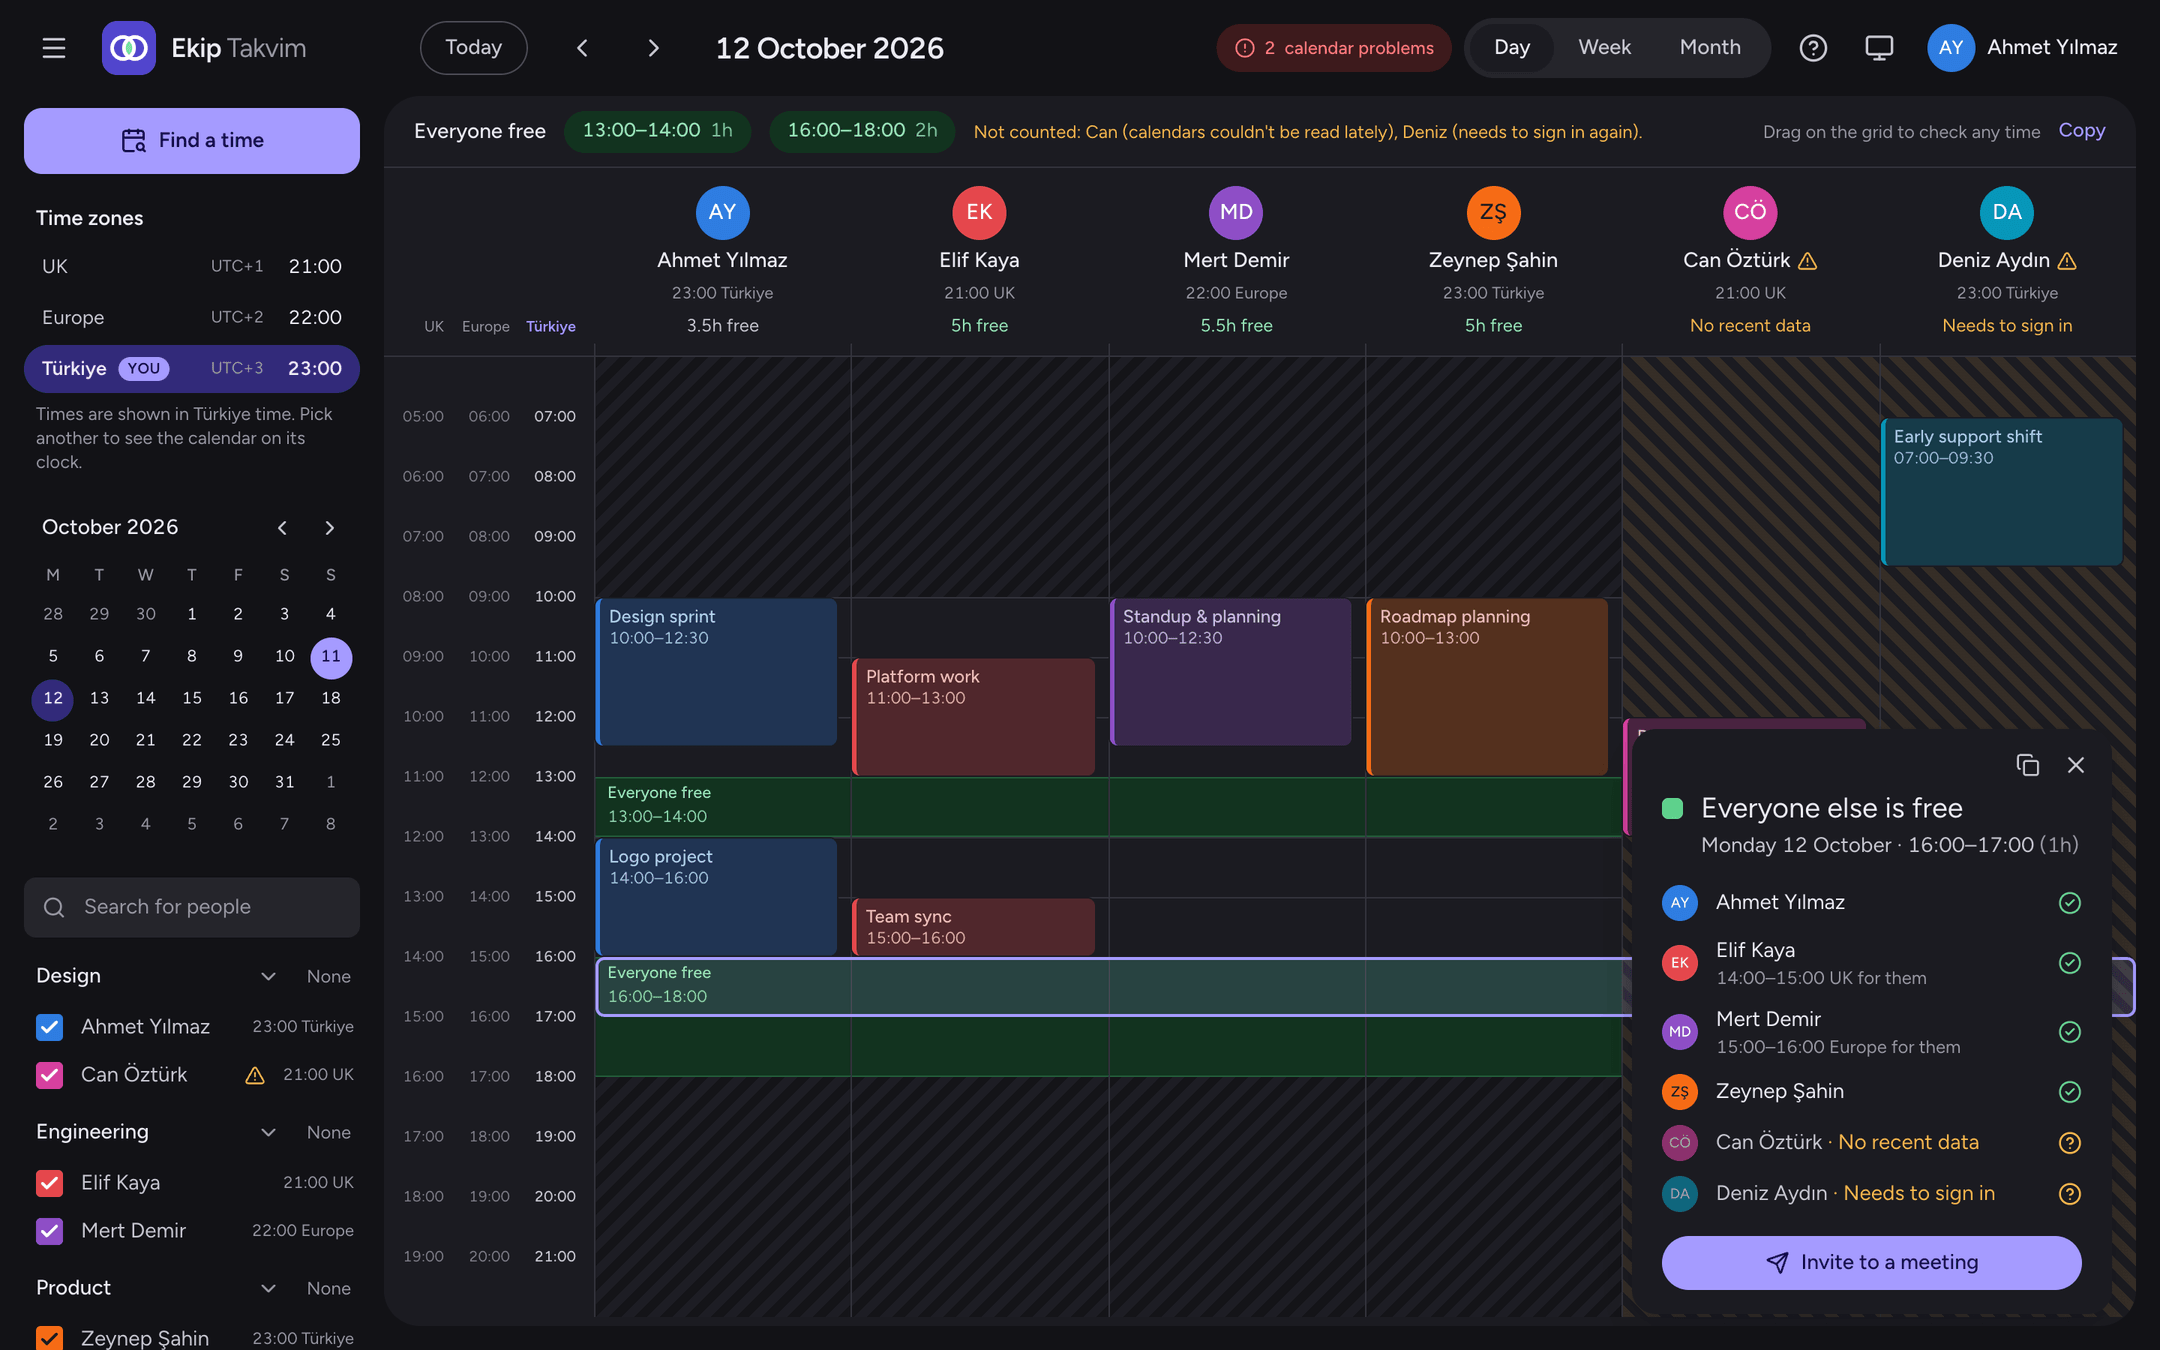
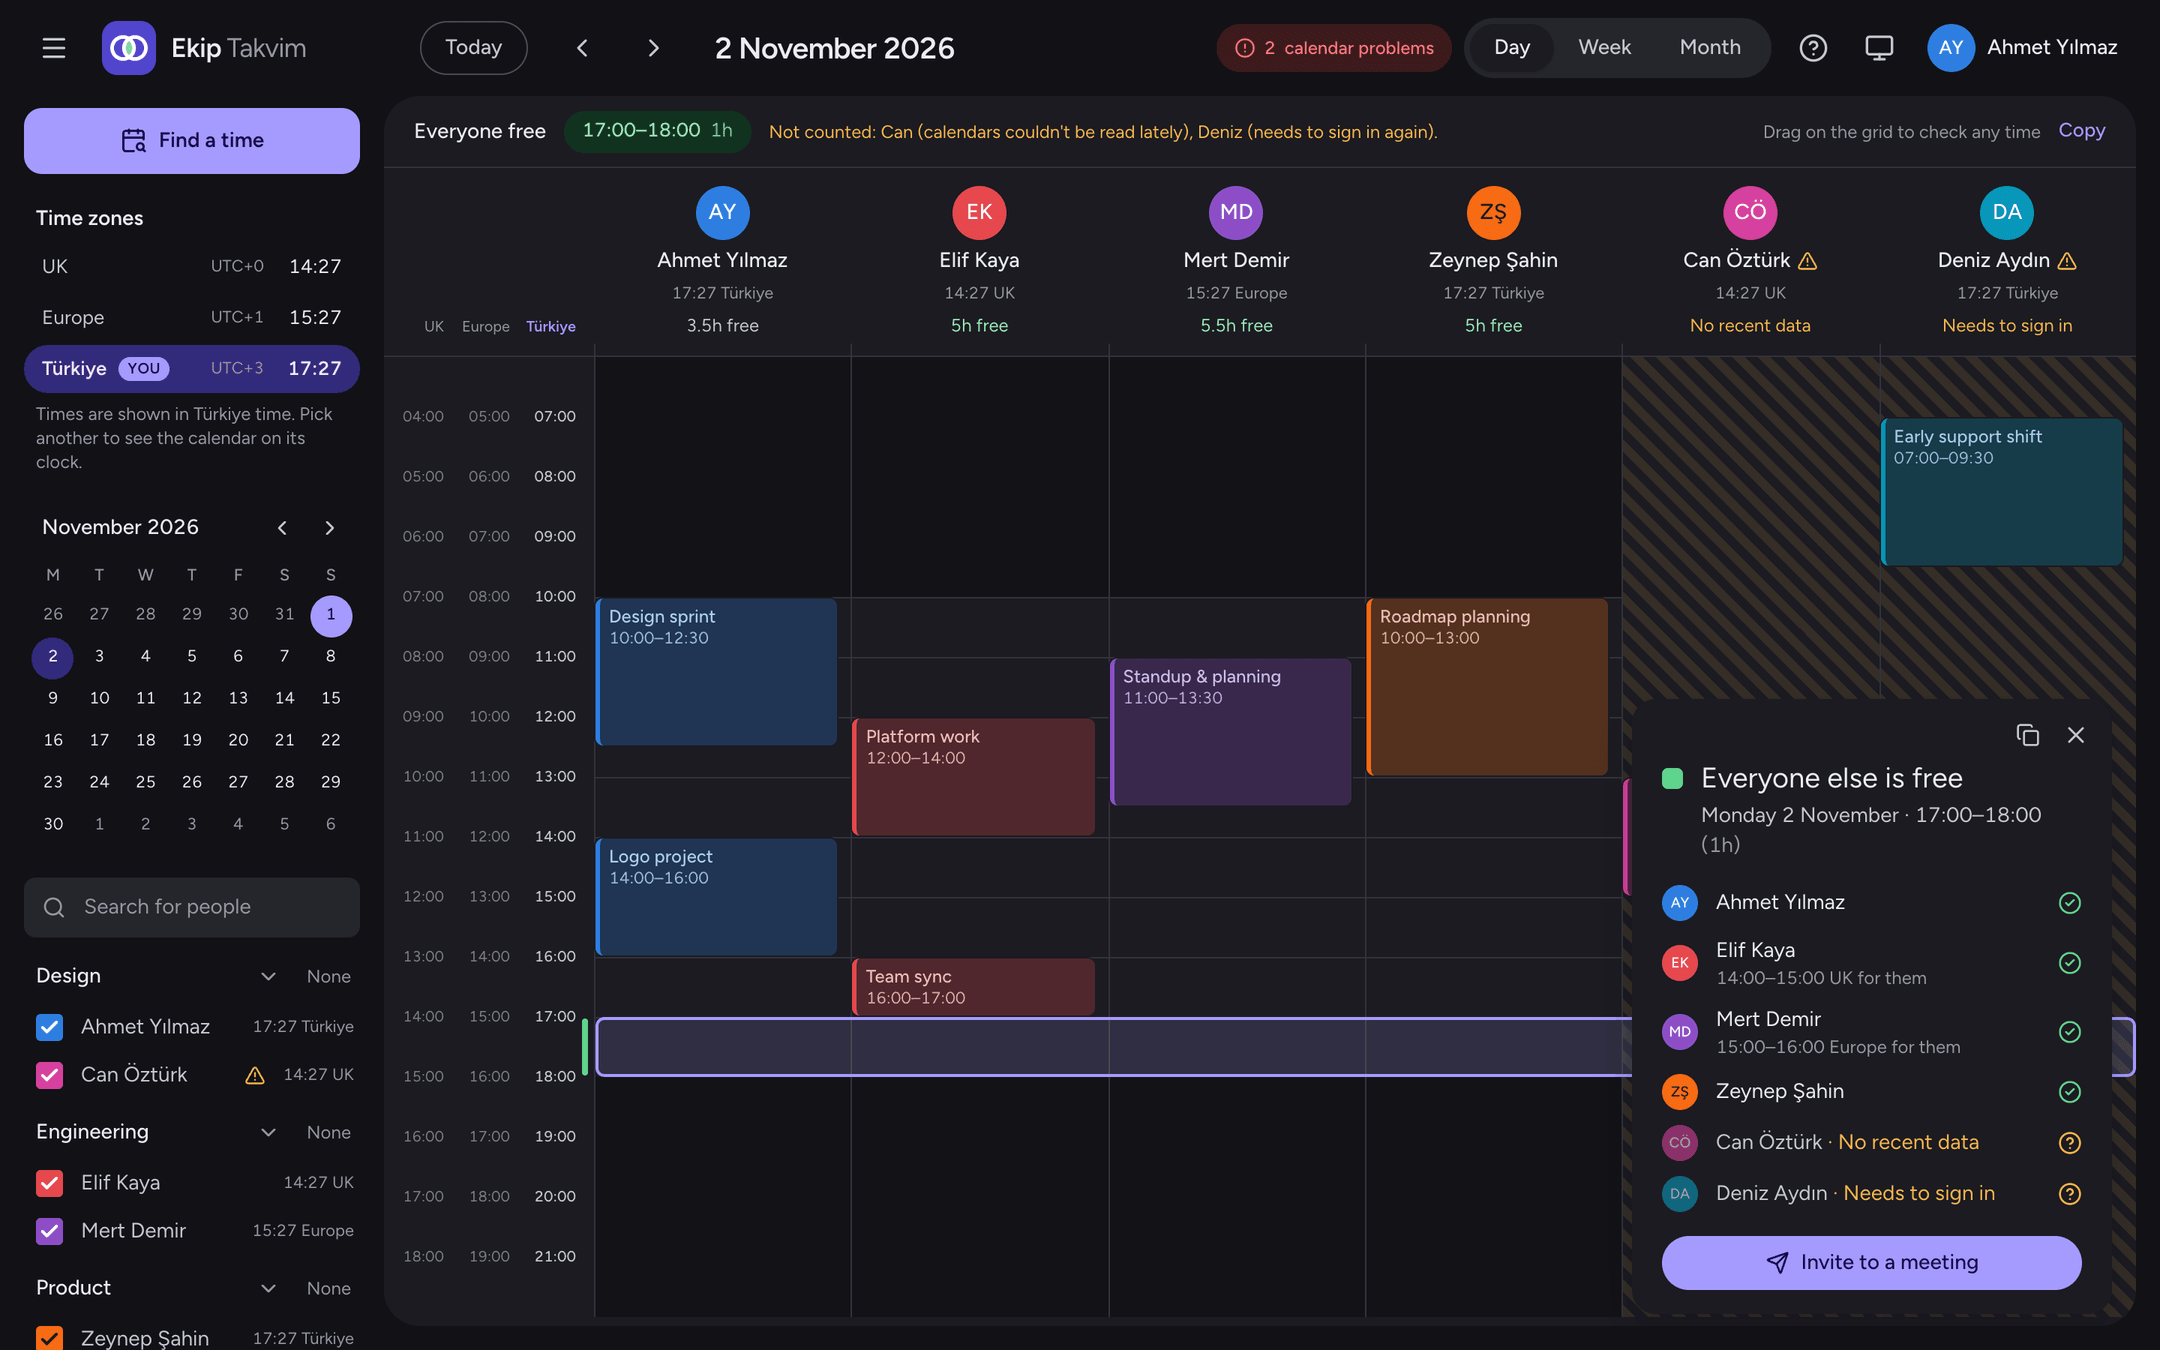
feat(ui): leave free time empty and shade off-hours flat
People read the green "Everyone free" block on the day view as someone's
event. Shared free time now stays empty like the rest of the calendar:
- a green mark beside the hours and the chips above the grid show it;
- hovering highlights it, and clicking still selects it.

Off-hours are a flat light grey instead of stripes, so they don't outweigh
free time. Stripes are left for one meaning: we don't know when this
person is free.

The docs, help dialog and day-view screenshots follow.

diff --git a/src/components/time-grid.tsx b/src/components/time-grid.tsx
@@ -34,9 +34,9 @@ export type GridColumn = {
   header: ReactNode;
   events: GridEvent[];
   allDay: GridAllDay[];
-  /** Common free slots, drawn as green bands. */
+  /** Common free slots: left empty, marked in the hour gutter, clickable to select. */
   bands: Interval[];
-  /** Parts of the day that can be selected; the rest is hatched. null = all. */
+  /** Parts of the day that can be selected; the rest is shaded as off-hours. null = all. */
   selectable?: Interval[] | null;
   pending?: boolean;
   /** We don't know when this person is free; the column is hatched, never white. */
@@ -60,7 +60,6 @@ export function TimeGrid({
   selection,
   onSelect,
   selectAcross,
-  bandLabel,
   card,
   clickLength,
   scrollKey,
@@ -76,7 +75,6 @@ export function TimeGrid({
   selection: GridSelection | null;
   onSelect: (s: GridSelection | null) => void;
   selectAcross: boolean;
-  bandLabel: "first" | "all";
   card: ReactNode;
   clickLength: number;
   scrollKey: string;
@@ -107,6 +105,14 @@ export function TimeGrid({
   const gutterZones = [...zones.filter((z) => z.zone !== tz), ...zones.filter((z) => z.zone === tz)];
   const labelDay = columns[0]?.day;
   const hasAllDay = columns.some((c) => c.allDay.length > 0);
+  // Shared free time, marked in the gutter rather than drawn over the columns.
+  const freeMarks = (() => {
+    const first = columns[0];
+    if (!first?.bands.length) return [];
+    const base = dayStart(first.day, tz) + hours.start * HOUR;
+    const y = (t: number) => (Math.min(Math.max(t - base, 0), span * HOUR) / HOUR) * hourPx;
+    return first.bands.map(([s, e]) => ({ s, e, top: y(s), height: y(e) - y(s) }));
+  })();
 
   // The grid only covers the display hours; open at their start.
   useEffect(() => {
@@ -303,6 +309,14 @@ export function TimeGrid({
         {/* Body */}
         <div className="relative grid" style={{ gridTemplateColumns: template, height: span * hourPx }}>
           <div className="sticky left-0 z-20 bg-surface">
+            {freeMarks.map((m) => (
+              <span
+                key={`free-${m.s}`}
+                title={`Everyone free ${formatRange(m.s, m.e, tz)}`}
+                className="absolute right-1 w-1 rounded-full bg-free-strong"
+                style={{ top: m.top + 1, height: Math.max(m.height - 2, 4) }}
+              />
+            ))}
             {labelDay &&
               Array.from({ length: hours.end - hours.start - 1 }, (_, i) => hours.start + i + 1).map((h) => {
                 const at = zonedTime(labelDay, h, tz);
@@ -336,7 +350,6 @@ export function TimeGrid({
               now={now}
               isToday={c.day === today}
               showDot={ci === columns.findIndex((x) => x.day === today)}
-              showBandLabel={bandLabel === "all" || ci === 0}
               selection={
                 selection &&
                 selection.day === c.day &&
@@ -388,7 +401,6 @@ function Column({
   now,
   isToday,
   showDot,
-  showBandLabel,
   selection,
   ...handlers
 }: {
@@ -399,7 +411,6 @@ function Column({
   now: number;
   isToday: boolean;
   showDot: boolean;
-  showBandLabel: boolean;
   selection: { range: Interval; edgeLeft: boolean; edgeRight: boolean } | null;
   onPointerDown: (e: PointerEvent<HTMLDivElement>) => void;
   onPointerMove: (e: PointerEvent<HTMLDivElement>) => void;
@@ -440,27 +451,18 @@ function Column({
         />
       ))}
 
-      {column.bands.map(([s, e]) => {
-        const top = y(s);
-        const height = y(e) - top;
-        return (
-          <div
-            key={`band-${s}`}
-            data-band-start={s}
-            data-band-end={e}
-            title={`Everyone free ${formatRange(s, e, tz)} — click to select`}
-            className="absolute inset-x-0 cursor-pointer border-y border-free-border/60 bg-free hover:brightness-[0.97]"
-            style={{ top, height }}
-          >
-            {showBandLabel && height >= 22 && (
-              <div className="truncate px-2 pt-0.5 font-body text-[11px] font-medium text-on-free">
-                {height >= 36 ? "Everyone free" : formatRange(s, e, tz)}
-                {height >= 36 && <div className="font-normal opacity-90">{formatRange(s, e, tz)}</div>}
-              </div>
-            )}
-          </div>
-        );
-      })}
+      {/* Shared free time stays empty, as in any calendar, so it can't pass for an
+          event. The hour gutter marks it; here it only answers to hover and clicks. */}
+      {column.bands.map(([s, e]) => (
+        <div
+          key={`band-${s}`}
+          data-band-start={s}
+          data-band-end={e}
+          title={`Everyone free ${formatRange(s, e, tz)} — click to select`}
+          className="absolute inset-x-0 cursor-pointer hover:bg-free/60"
+          style={{ top: y(s), height: y(e) - y(s) }}
+        />
+      ))}
 
       {column.noData && !column.pending && <div aria-hidden className="nodata pointer-events-none absolute inset-0" />}
       {column.pending && <div className="shimmer pointer-events-none absolute inset-1 rounded-md bg-surface-2" />}

diff --git a/src/app/globals.css b/src/app/globals.css
@@ -21,8 +21,7 @@
   --free-strong: #1f9254;
   --on-free: #11663a;
   --offhours: #f8f8fa;
-  --offwork-a: #f0f0f4;
-  --offwork-b: #e6e6ed;
+  --offwork: #f4f4f7;
   --now: #e5484d;
   --warn: #b25e00;
   --danger: #cd2b31;
@@ -53,8 +52,7 @@
     --free-strong: #5fd38d;
     --on-free: #9be6b8;
     --offhours: #17171c;
-    --offwork-a: #141418;
-    --offwork-b: #1d1d24;
+    --offwork: #131317;
     --now: #ff6b6f;
     --warn: #f5b74e;
     --danger: #ff7a7f;
@@ -85,8 +83,7 @@
   --free-strong: #5fd38d;
   --on-free: #9be6b8;
   --offhours: #17171c;
-  --offwork-a: #141418;
-  --offwork-b: #1d1d24;
+  --offwork: #131317;
   --now: #ff6b6f;
   --warn: #f5b74e;
   --danger: #ff7a7f;
@@ -207,13 +204,10 @@ body {
   }
 }
 
-/* Outside working hours: can't be selected until off-hours are shown. */
+/* Outside working hours: a quiet flat shade, so it doesn't outshout free time.
+   Can't be selected until off-hours are shown. Stripes are kept for .nodata. */
 .offwork {
-  background: repeating-linear-gradient(
-    -45deg,
-    var(--offwork-a) 0 6px,
-    var(--offwork-b) 6px 12px
-  );
+  background: var(--offwork);
 }
 
 /* A person whose free time we don't know: not white, so it can't read as free. */

diff --git a/src/components/help-dialog.tsx b/src/components/help-dialog.tsx
@@ -11,7 +11,7 @@ const STEPS = [
   },
   {
     title: "Green means everyone ticked is free",
-    body: "Green bands and chips are times when none of their calendars has anything. Click one to open it on the day view.",
+    body: "Green chips, and the green mark beside the hours on the day view, are times when none of their calendars has anything. Click a chip to open it on the day view.",
   },
   {
     title: "Check any time range",

diff --git a/src/components/day-view.tsx b/src/components/day-view.tsx
@@ -167,7 +167,6 @@ export function DayView({
         selection={selection}
         onSelect={setSelection}
         selectAcross
-        bandLabel="first"
         clickLength={state.min * MINUTE}
         scrollKey={`day-${state.date}`}
         onOpenEvent={setOpenEvent}

diff --git a/docs/user-guide.md b/docs/user-guide.md
@@ -23,7 +23,7 @@
 
 ## The views
 
-- **Day:** everyone side by side, one column each. Green bands mark when everyone you've ticked is free.
+- **Day:** everyone side by side, one column each. Free time stays empty. A green mark beside the hours, and the chips above the grid, show when everyone you've ticked is free.
 - **Week:** seven big day boxes. Each lists, as plain text, when every person is free, which job they're at, and the slots everyone shares.
 - **Month:** each day shows each person's free hours ("6h free", "Busy", "Off") and how much time everyone has together.
 - **Find a time:** every gap where everyone is free for at least the length you choose, over the next 3 to 30 days. *Almost works* lists slots that suit everyone but one person.
@@ -71,7 +71,7 @@ You're free when none of your ticked calendars has an event at that time.
 
 ## Working hours and time zones
 
-- **Working hours:** only company working hours can be picked or searched. The rest of the day is hatched as off-hours. **Show off-hours** in the sidebar (or `o`) opens them up, when someone needs an evening or weekend slot.
+- **Working hours:** only company working hours can be picked or searched. The rest of the day is shaded grey as off-hours. **Show off-hours** in the sidebar (or `o`) opens them up, when someone needs an evening or weekend slot.
 - **Your zone:** every time is shown in your own zone. The sidebar has a clock for each of the team's zones, with yours marked **You**. Click another clock to see the calendar on its time.
 - **Others' local time:** each person's local time shows next to their name. The selection card and the invite dialog say what a slot is on their clock, e.g. "15:00–16:00 UK for them".
 

diff --git a/README.md b/README.md
@@ -17,7 +17,7 @@
 
 <picture>
   <source media="(prefers-color-scheme: dark)" srcset="docs/screenshots/day-dark.png">
-  <img src="docs/screenshots/day-light.png" alt="The day view: one column per person, green bands where everyone is free, and a card showing who's free in the selected range">
+  <img src="docs/screenshots/day-light.png" alt="The day view: one column per person, the time everyone shares marked beside the hours, and a card showing who's free in the selected range">
 </picture>
 
 Many of us work more than one job, so "is Mert free on Thursday evening?" usually means asking around. With Ekip Takvim, everyone signs in once with their company Google account and shares their other calendars with it. From then on, the app answers that question for the whole team. *Ekip takvim* means "team calendar" in Turkish.
@@ -27,7 +27,7 @@ Many of us work more than one job, so "is Mert free on Thursday evening?" usuall
 
 ## Features
 
-- **Day, week and month views** of everyone's free time, with green where everyone is free.
+- **Day, week and month views** of everyone's free time, with the slots everyone shares marked at a glance.
 - **Find a time:** every gap that suits the whole team for as long as you need, plus slots that suit all but one person.
 - **Other jobs count too:** people share their other calendars with their company account and pick which ones count as busy time.
 - **Time zones done properly:** you see every time on your own clock, alongside each person's local time and fixed company working hours.

diff --git a/docs/configuration.md b/docs/configuration.md
@@ -43,7 +43,7 @@ google_domain: example.com
 | Key | Default | What it does |
 |---|---|---|
 | `timezone` | `TZ`, else UTC | The team's time zone, as an IANA name like `Europe/Istanbul` or `America/New_York`. Working hours are in it, and new people start in it when their Google Calendar has no zone. |
-| `working_hours.start`, `working_hours.end` | `9`, `17` | Company hours, from 0 to 24. Fractions work: `9.5` is 09:30. Outside them the calendar is hatched as off-hours, and free time isn't searched there, unless someone turns on **Show off-hours**. |
+| `working_hours.start`, `working_hours.end` | `9`, `17` | Company hours, from 0 to 24. Fractions work: `9.5` is 09:30. Outside them the calendar is shaded grey as off-hours, and free time isn't searched there, unless someone turns on **Show off-hours**. |
 | `working_hours.days` | `[mon, tue, wed, thu, fri]` | Working days, from `mon` to `sun`. |
 | `working_hours.timezone` | `timezone` | Set it if the hours are kept in another zone. |
 | `timezones` | the team's zone | Up to 6 `{ label, zone }` pairs: the clocks in the sidebar and the extra hour columns in the day view. Labels can be up to 20 characters. A viewer whose own zone isn't listed sees it added. |
